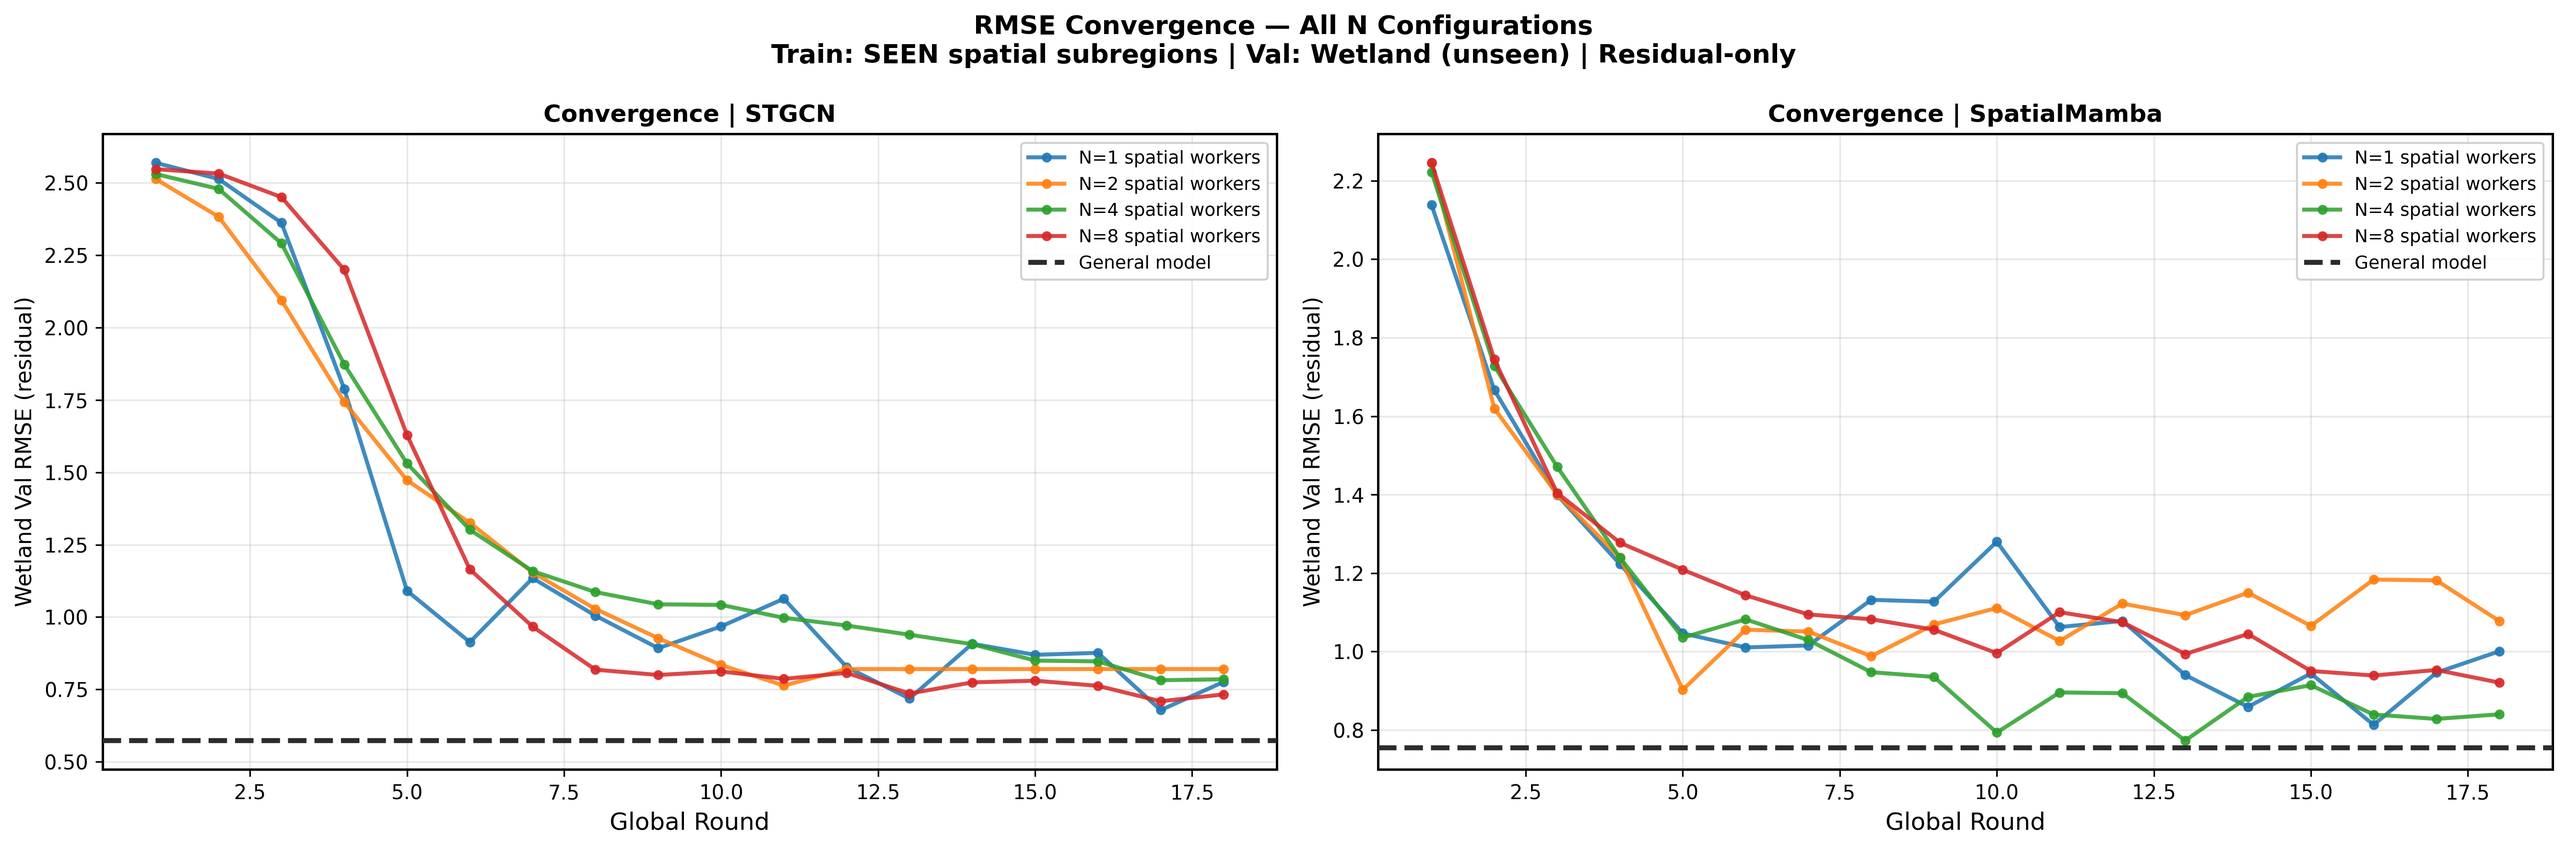
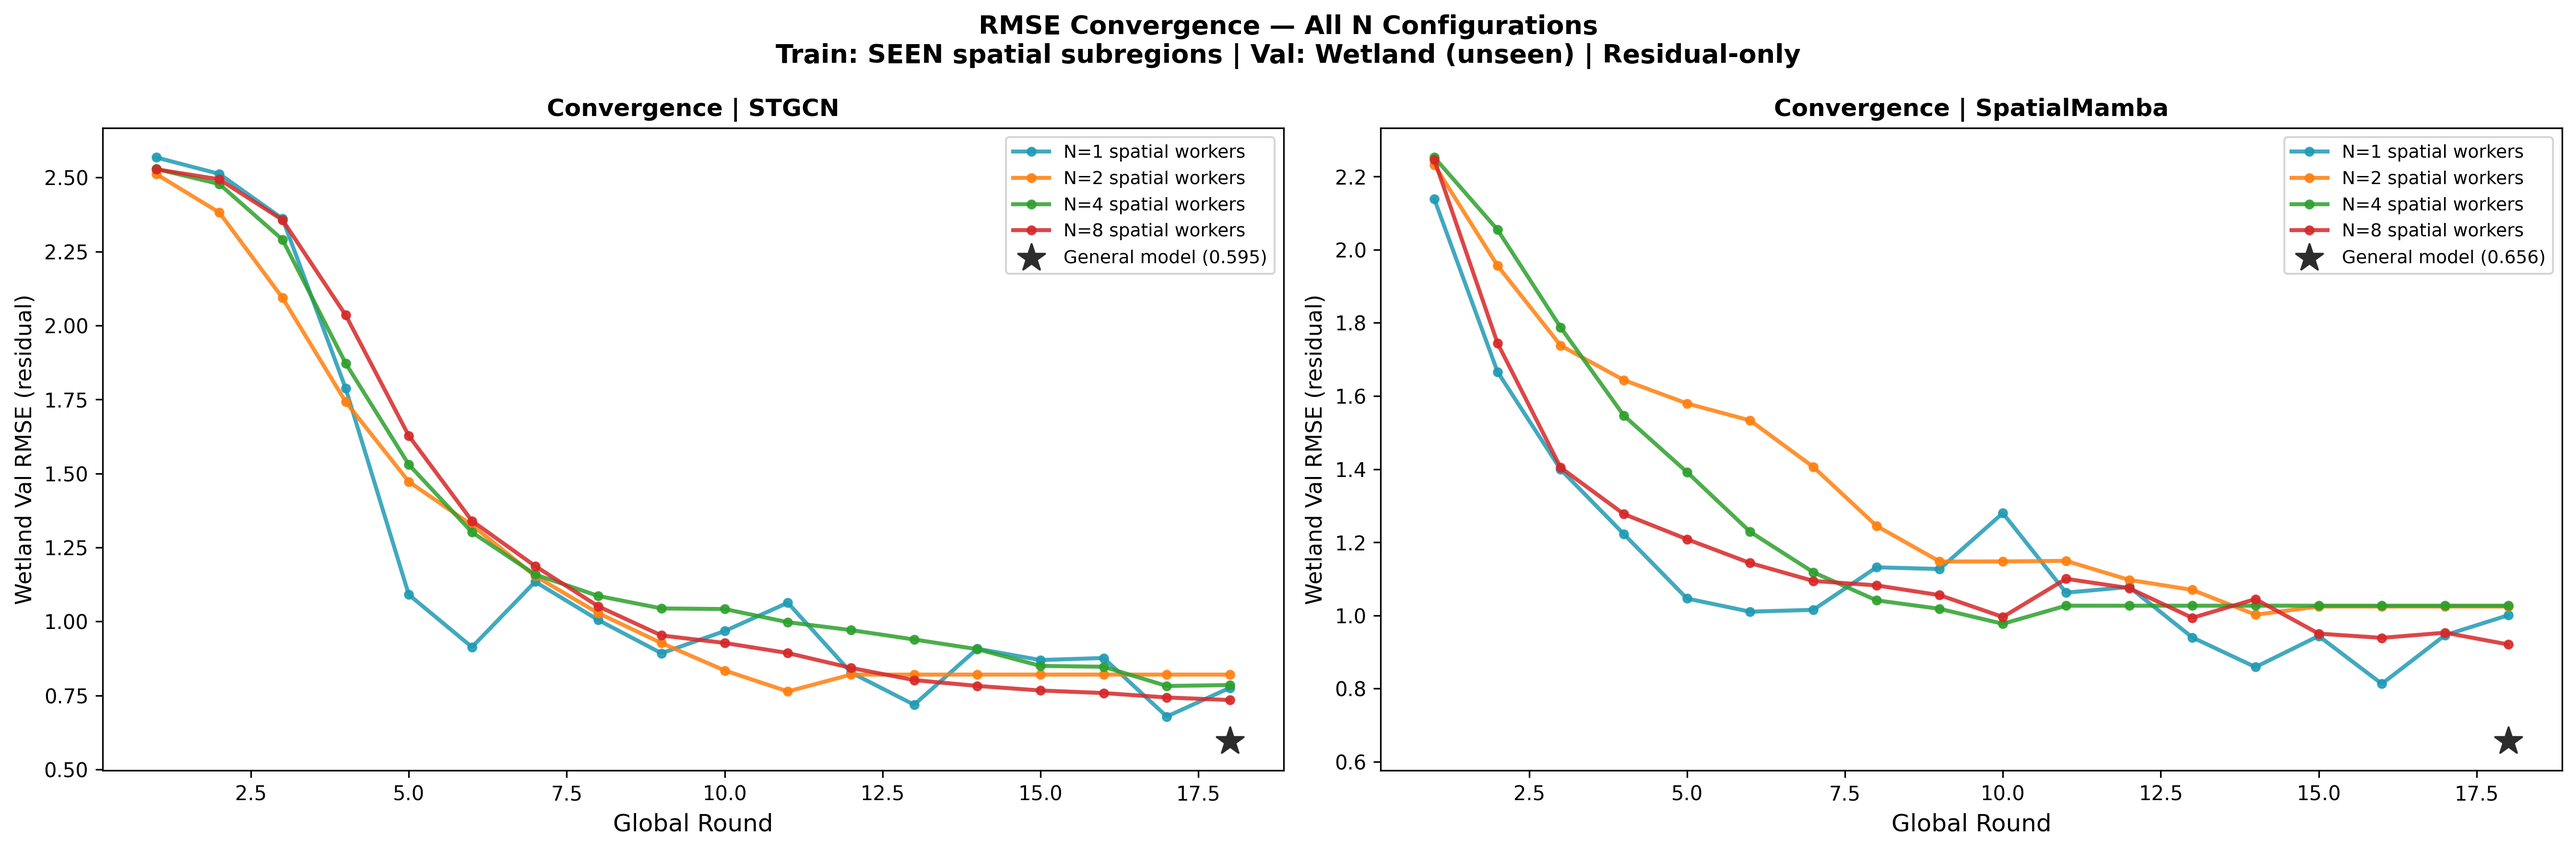
Fix convergence figure: replace horizontal General model line with star marker at round 18

diff --git a/generate_figures_v3.py b/generate_figures_v3.py
@@ -323,8 +323,7 @@ def fig_convergence_all_N(arch="STGCN"):
                      marker="o", ms=4, alpha=0.85,
                      label=f"N={n} spatial workers")
 
-        ax.axhline(cent_rmse, color=GENERAL_COLOR, lw=2.5, ls="--",
-                    label="General model", zorder=5)
+        ax.scatter([18],[cent_rmse],color=GENERAL_COLOR,s=200,marker="*",zorder=10,label=f"General model ({cent_rmse:.3f})")
         ax.set_xlabel("Global Round", fontsize=12)
         ax.set_ylabel("Wetland Val RMSE (residual)", fontsize=11)
         ax.set_title(f"Convergence | {arch_name}", fontsize=12, fontweight="bold")
